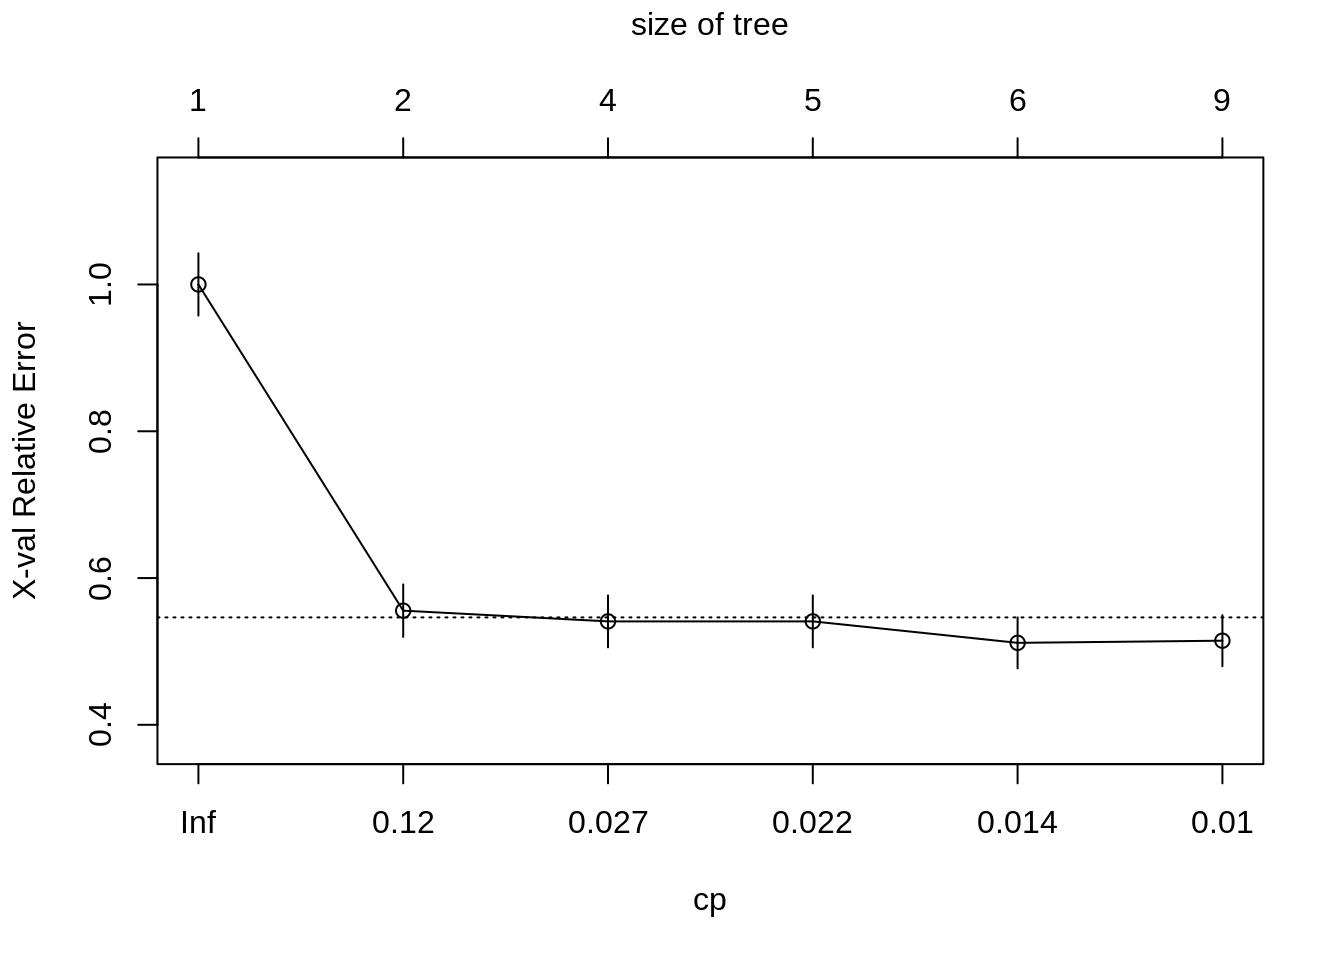
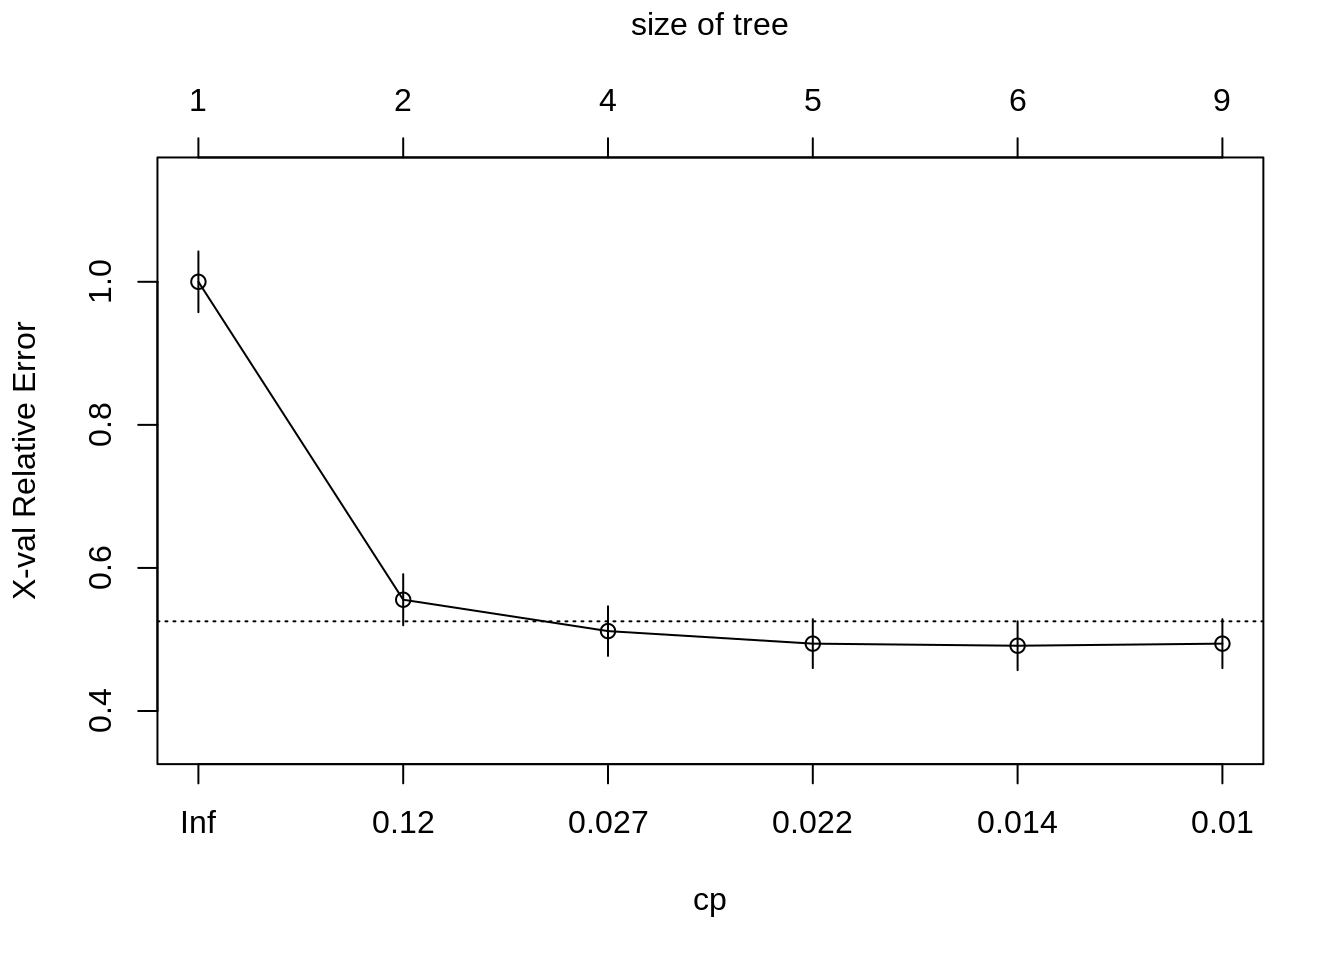
Deploy lebebr01/stat_thinking to github.com/lebebr01/stat_thinking.git:master

diff --git a/docs/classification.html b/docs/classification.html
@@ -324,10 +324,10 @@ titanic &lt;-<span class="st"> </span><span class="kw">bind_rows</span>(titanic_
 ##         CP nsplit rel error  xerror     xstd
 ## 1 0.444444      0   1.00000 1.00000 0.042446
 ## 2 0.030702      1   0.55556 0.55556 0.035750
-## 3 0.023392      3   0.49415 0.54094 0.035402
-## 4 0.020468      4   0.47076 0.54094 0.035402
-## 5 0.010234      5   0.45029 0.51170 0.034675
-## 6 0.010000      8   0.41813 0.51462 0.034749</code></pre>
+## 3 0.023392      3   0.49415 0.51170 0.034675
+## 4 0.020468      4   0.47076 0.49415 0.034217
+## 5 0.010234      5   0.45029 0.49123 0.034140
+## 6 0.010000      8   0.41813 0.49415 0.034217</code></pre>
 <div class="sourceCode"><pre class="sourceCode r"><code class="sourceCode r"><span class="kw">plotcp</span>(class_tree)</code></pre></div>
 <p><img src="05-classification_files/figure-html/unnamed-chunk-6-1.png" width="672" /></p>
 <div class="sourceCode"><pre class="sourceCode r"><code class="sourceCode r">prune_class_tree &lt;-<span class="st"> </span><span class="kw">prune</span>(class_tree, <span class="dt">cp =</span> .<span class="dv">02</span>)

diff --git a/docs/05-classification.md b/docs/05-classification.md
@@ -249,10 +249,10 @@ printcp(class_tree)
 ##         CP nsplit rel error  xerror     xstd
 ## 1 0.444444      0   1.00000 1.00000 0.042446
 ## 2 0.030702      1   0.55556 0.55556 0.035750
-## 3 0.023392      3   0.49415 0.54094 0.035402
-## 4 0.020468      4   0.47076 0.54094 0.035402
-## 5 0.010234      5   0.45029 0.51170 0.034675
-## 6 0.010000      8   0.41813 0.51462 0.034749
+## 3 0.023392      3   0.49415 0.51170 0.034675
+## 4 0.020468      4   0.47076 0.49415 0.034217
+## 5 0.010234      5   0.45029 0.49123 0.034140
+## 6 0.010000      8   0.41813 0.49415 0.034217
 ```
 
 ```r
